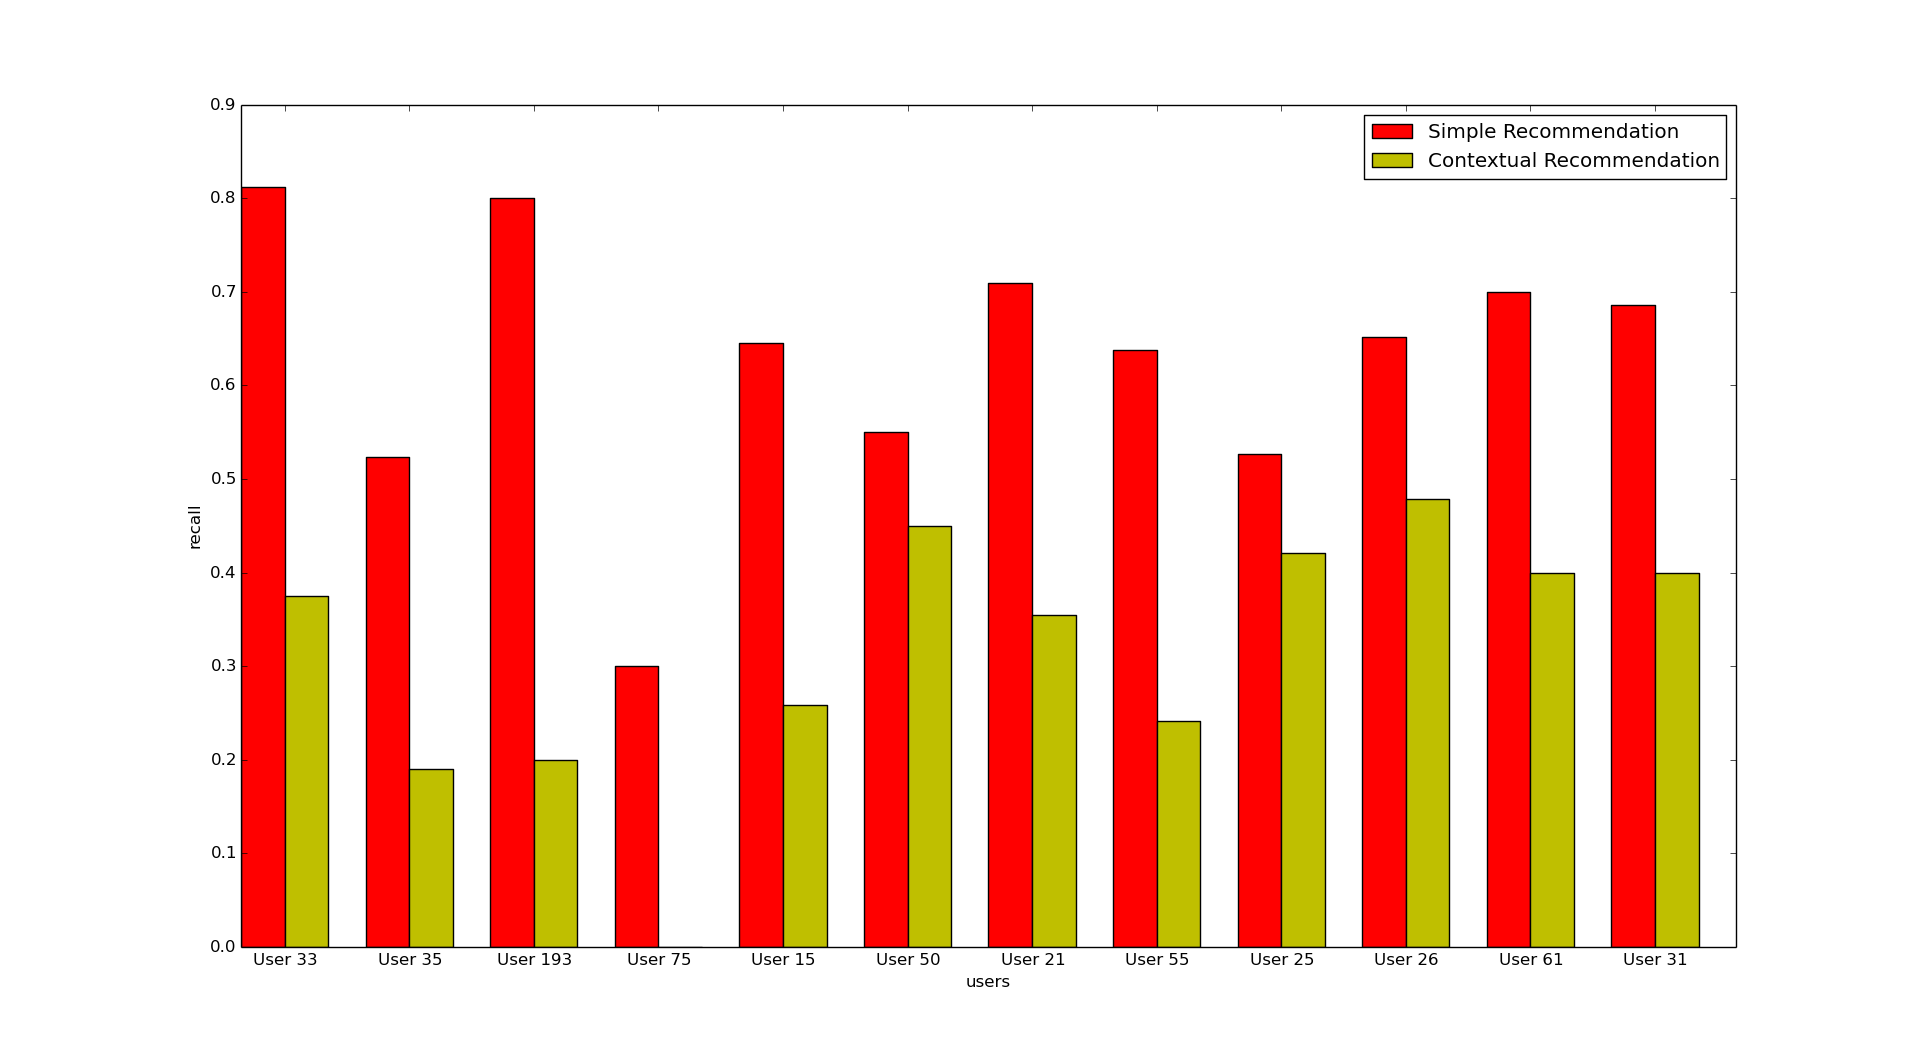
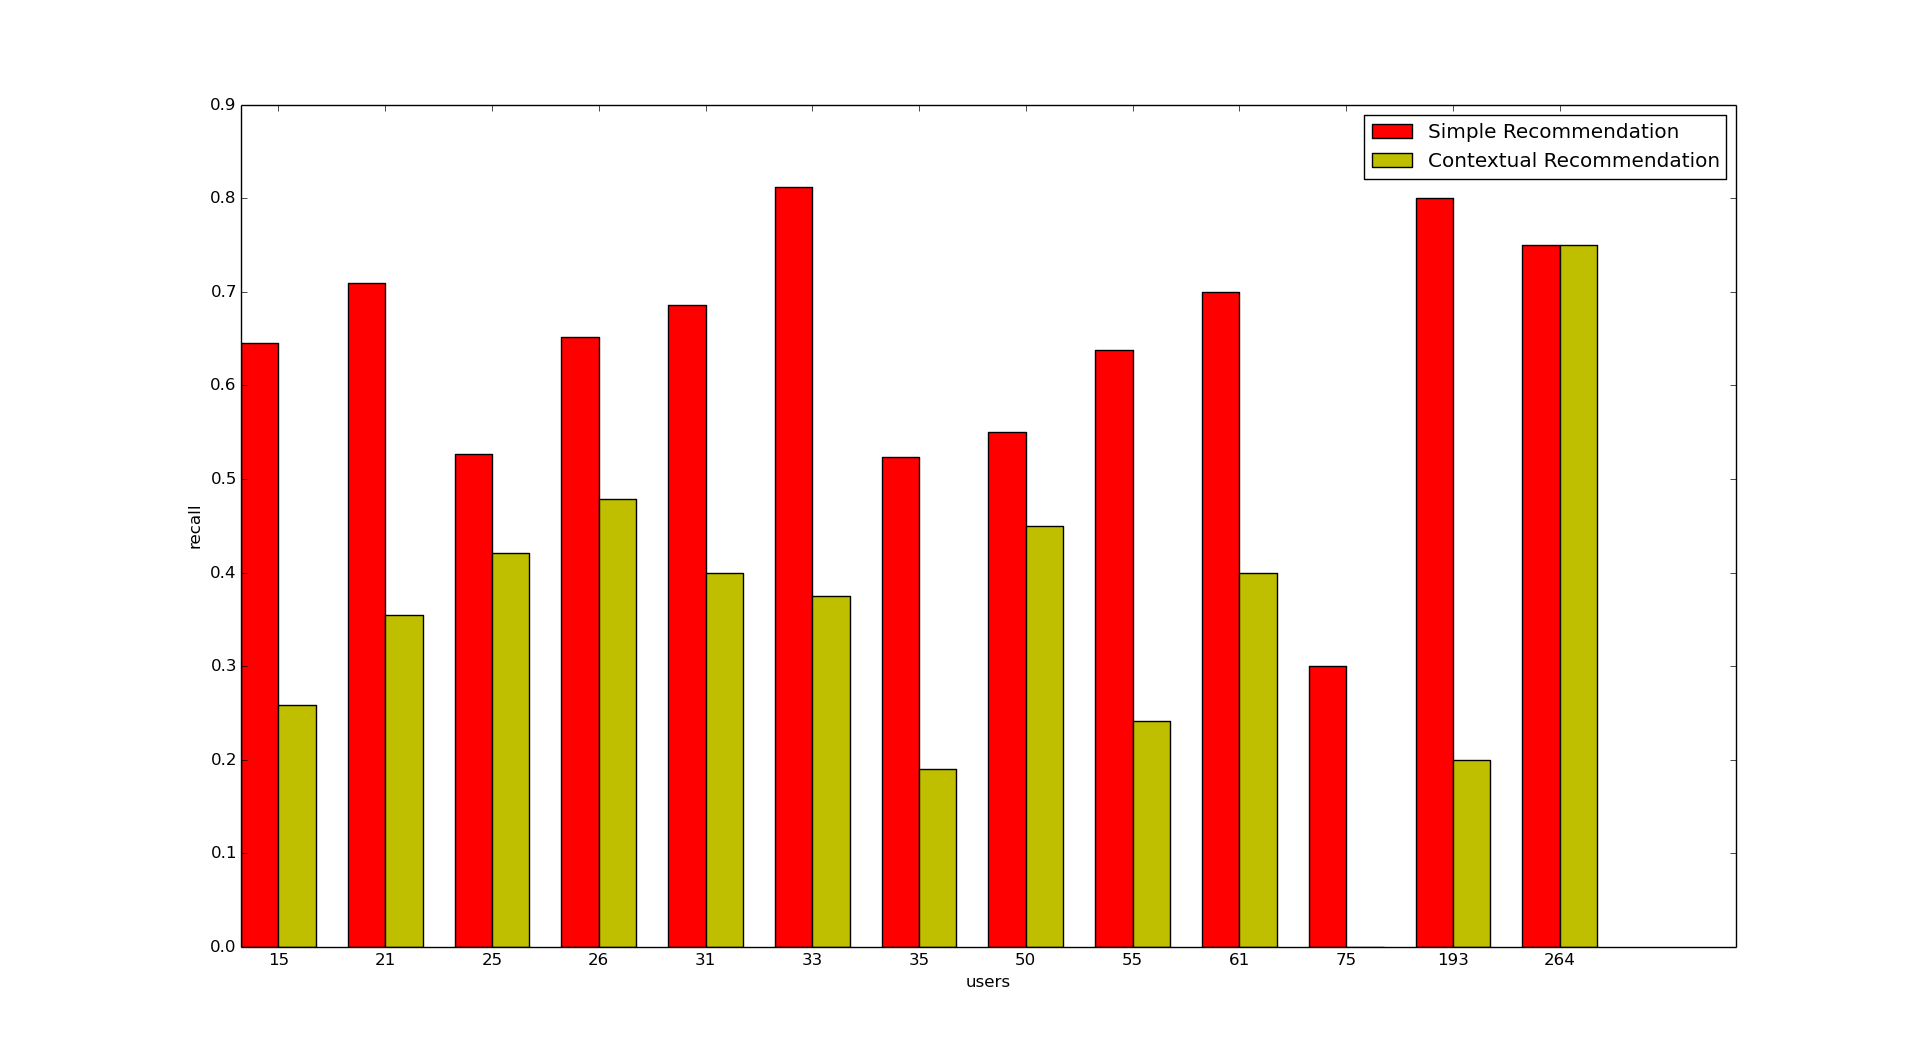
Sorts user ids on graphs

Changed region(s): [[0.4979, 0.1825, 0.9025, 0.9125], [0.1245, 0.1521, 0.4979, 0.9125]]

diff --git a/app/algorithm/cars/info_gain/plotter.py b/app/algorithm/cars/info_gain/plotter.py
@@ -93,7 +93,10 @@ class Plotter(object):
     def plot_precision_bar(self, type='precision'):
         precisions = []
         ctx_precisions = []
-        for user in self.metrics.keys():
+
+        users_ids = self.metrics.keys()
+        users_ids.sort()
+        for user in users_ids:
             precisions.append(self.metrics[user][type][0])
             ctx_precisions.append(self.metrics[user][type][1])
 
@@ -110,7 +113,7 @@ class Plotter(object):
         ax.set_ylabel(type)
         ax.set_xlabel('users')
         ax.set_xticks(ind + width)
-        ax.set_xticklabels(self.user_labels)
+        ax.set_xticklabels(users_ids)
 
         ax.legend((rects1[0], rects2[0]), ('Simple Recommendation', 'Contextual Recommendation'))
         plt.show()
